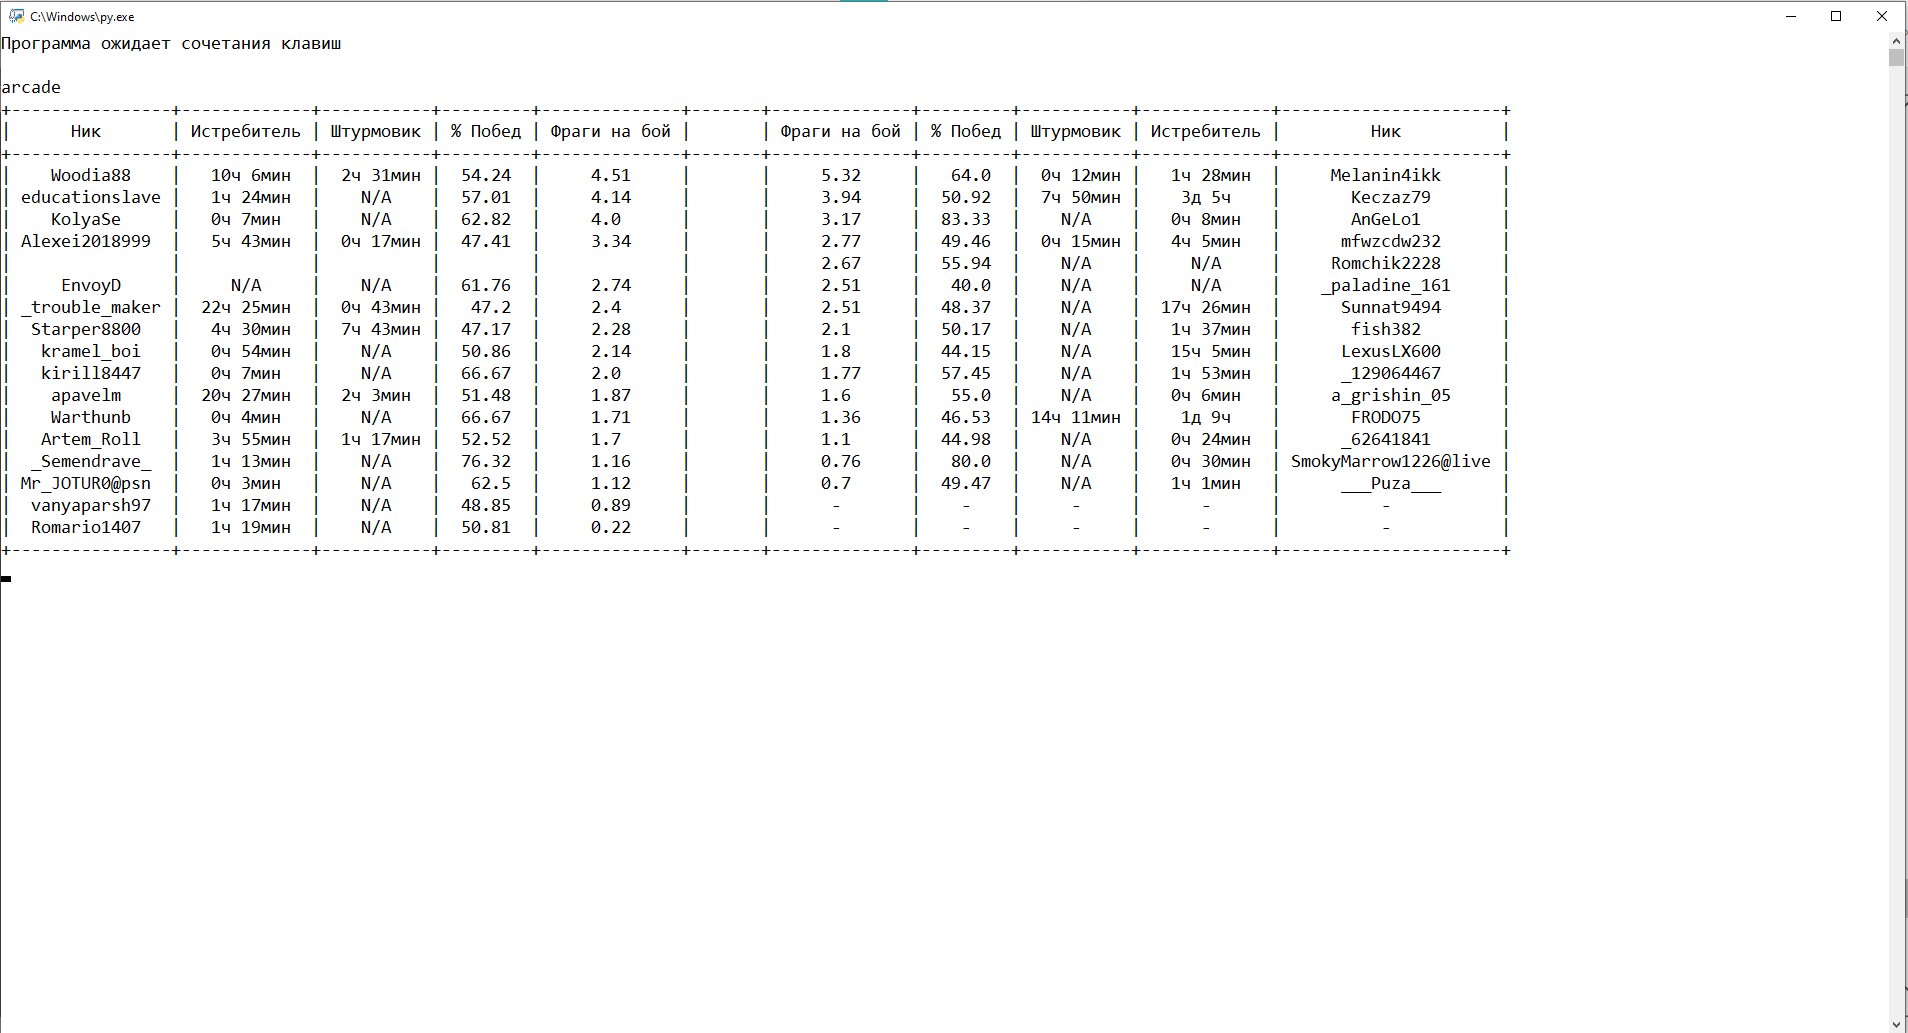
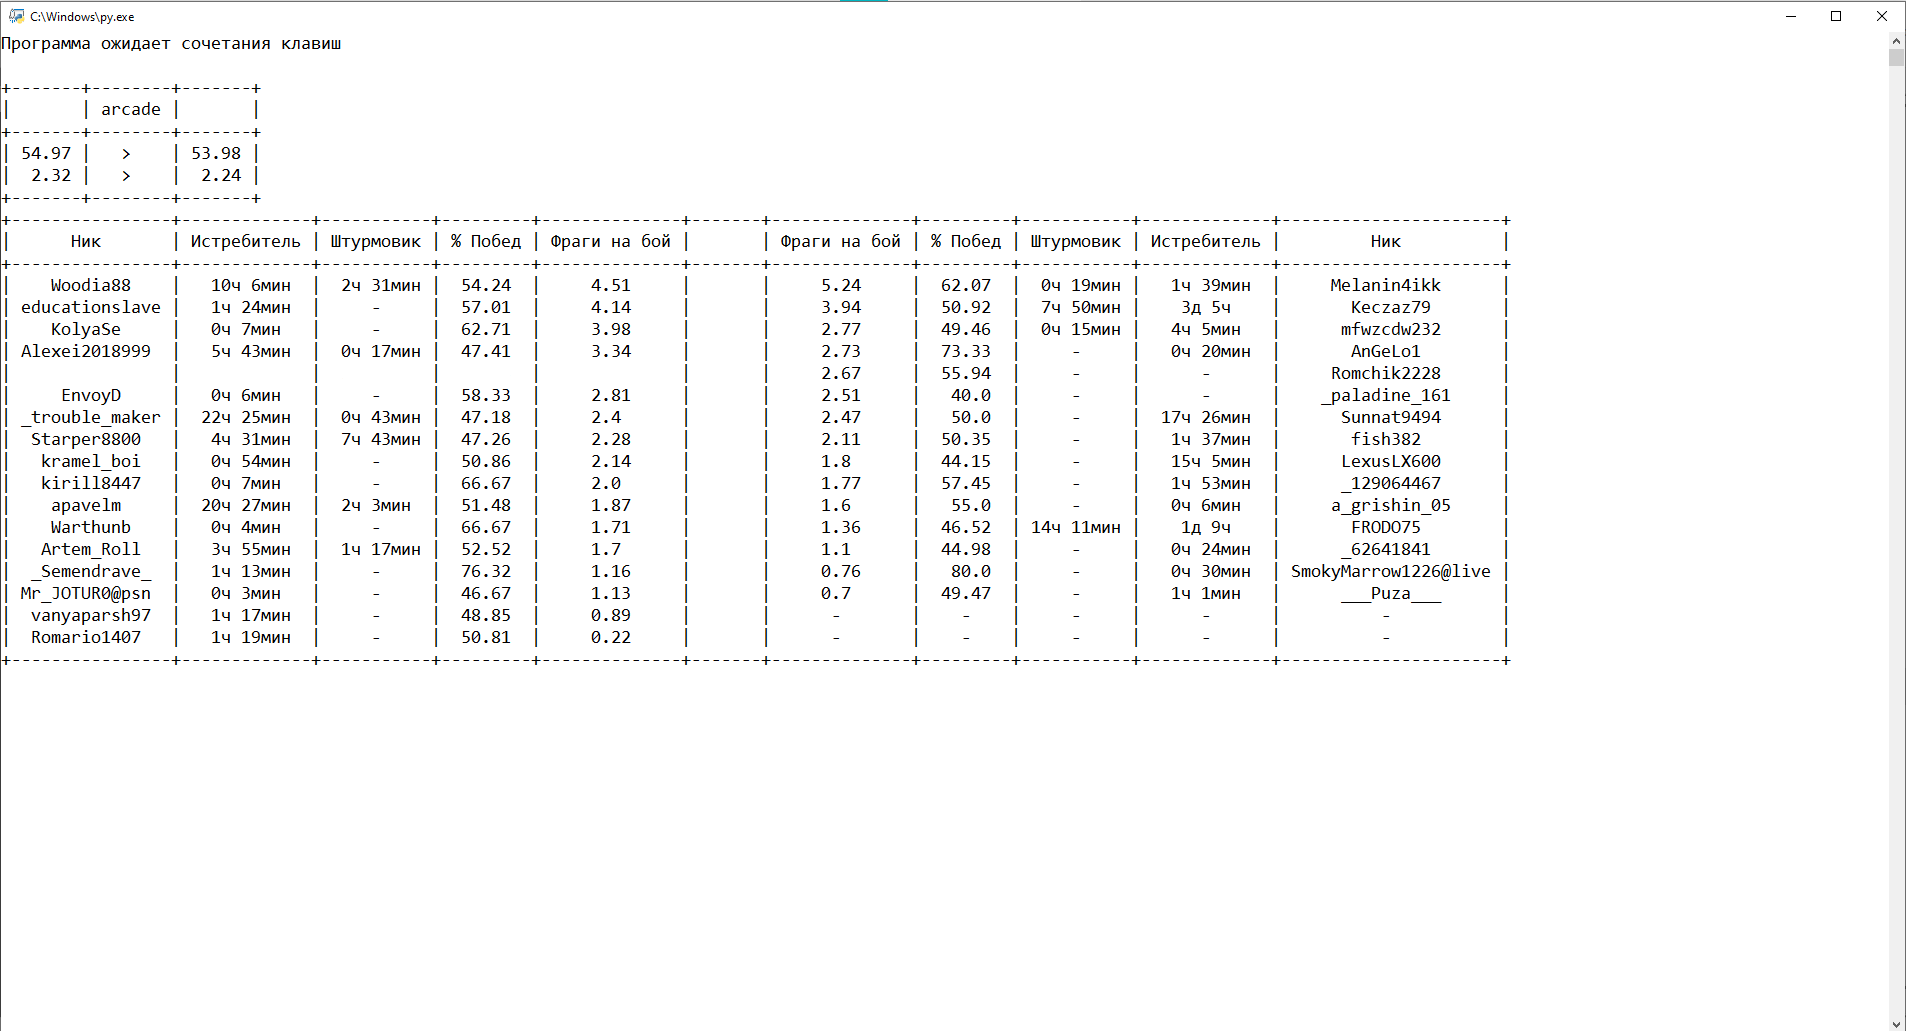
обновление интерфейса

diff --git a/parse_stat.py b/parse_stat.py
@@ -22,6 +22,7 @@ from contextlib import suppress
 import psutil
 from threading import Timer
 #from time import time
+import configparser
 
 driver = 0
 def terminateChrome():
@@ -70,8 +71,8 @@ try:
             if len(divs) == 0:
                 i = np.append(i, 50)
                 i = np.append(i, 0)
-                i = np.append(i, "N/A")
-                i = np.append(i, "N/A")
+                i = np.append(i, "-")
+                i = np.append(i, "-")
                 #print(i) 
             else:
                 wins = divs[0].select('li:nth-of-type(2)')
@@ -109,8 +110,12 @@ try:
                 timesShturm = divs[1].select('li:nth-of-type(8)')
                 
                 timeIstr = timeIstr[diffNumber].text
+                if timeIstr == "N/A":
+                    timeIstr = '-'                
                 timesShturm = timesShturm[diffNumber].text
-                
+                if timesShturm == "N/A":
+                    timesShturm = '-'
+                    
                 i = np.append(i, winrate)
                 i = np.append(i, kd)
                 i = np.append(i, timeIstr)
@@ -119,8 +124,8 @@ try:
             if type(e)==TimeoutException:
                 i = np.append(i, 50)
                 i = np.append(i, 0)
-                i = np.append(i, "N/A")
-                i = np.append(i, "N/A")
+                i = np.append(i, "-")
+                i = np.append(i, "-")
                 #print(i)
             else:
                 raise e            
@@ -157,8 +162,8 @@ try:
                 if len(divs) == 0:
                     i = np.append(i, 50)
                     i = np.append(i, 0)
-                    i = np.append(i, "N/A")
-                    i = np.append(i, "N/A")
+                    i = np.append(i, "-")
+                    i = np.append(i, "-")
                     #print(i) 
                 else:   
                     wins = divs[0].select('li:nth-of-type(2)')
@@ -196,8 +201,12 @@ try:
                     timesShturm = divs[1].select('li:nth-of-type(8)')
                     
                     timeIstr = timeIstr[diffNumber].text
+                    if timeIstr == "N/A":
+                        timeIstr = '-'   
                     timesShturm = timesShturm[diffNumber].text
-                    
+                    if timesShturm == "N/A":
+                        timesShturm = '-'
+                        
                     i = np.append(i, winrate)
                     i = np.append(i, kd)
                     i = np.append(i, timeIstr)
@@ -206,8 +215,8 @@ try:
                 if type(e)==TimeoutException:
                     i = np.append(i, 50)
                     i = np.append(i, 0)
-                    i = np.append(i, "N/A")
-                    i = np.append(i, "N/A")
+                    i = np.append(i, "-")
+                    i = np.append(i, "-")
                     #print(i)
                 else:
                     raise e
@@ -281,7 +290,7 @@ try:
             # team2.append([i[0]])
         # else:
             # team1.append([i[0]])
-    print(diff[1])
+    #print(diff[1])
     teams = np.array(teams)
     findstat(diffNumber, teams, team1, team2)
     
@@ -335,148 +344,163 @@ try:
     team1 = np.sort(team1forSort, order = 'kd')[::-1]
     team2 = np.sort(team2forSort, order = 'kd')[::-1]
 
-    def selectWindow(event):
-        try:
-            toplist = []
-            winlist = []
-            def enum_callback(hwnd, results):
-                winlist.append((hwnd, win32gui.GetWindowText(hwnd)))
-
-            win32gui.EnumWindows(enum_callback, toplist)
-            wt = [(hwnd, title) for hwnd, title in winlist if 'war thunder' in title.lower()]
-            # just grab the first window that matches
-            if wt !=[]:
-                wt = wt[0]
-                #pythoncom.CoInitializeEx(0)
-                #shell = win32com.client.Dispatch("WScript.Shell")
-                #shell.SendKeys('%')                
-                # use the window handle to set focus
-                win32gui.SetForegroundWindow(wt[0])  
-        except Exception as e:
-            if driver != 0:
-                driver.quit()
-                timeout = 3
-                t = Timer(timeout, terminateChrome)
-                t.start()                                
-            else:
-                terminateChrome()
-            file = open('error.log', 'a')
-            file.write('\n\n')
-            traceback.print_exc(file=file, chain=True)
-            traceback.print_exc()
-            file.close()                
-    
-    root = Tk()
-    root.geometry(f'1250x800+{int(root.winfo_screenwidth()/2-625)}+{int(root.winfo_screenheight()/2-400)}')
-    root.bind("<Button-1>",selectWindow)
-    root.bind("<Button-2>",selectWindow)
-    root.bind("<Button-3>",selectWindow)  
-    label1 = Label(root, text=f'{diff[1]}', font=('Roboto','14'), fg='gray')
-    label1.master.overrideredirect(True)
-    label1.master.lift()
-    label1.master.wm_attributes("-topmost", True)
-    
-    # hWindow = pywintypes.HANDLE(int(label1.master.frame(), 16)) 
-    # exStyle = win32con.WS_EX_LAYERED | win32con.WS_EX_NOACTIVATE | win32con.WS_EX_TRANSPARENT
-    # win32api.SetWindowLong(hWindow, win32con.GWL_EXSTYLE, exStyle)        
-    
-    label1.pack()
     sign = 0
+    sign1 = 0
+    
     if team1winrate>team2winrate:
         sign = '>'
     elif team1winrate==team2winrate:
         sign = '='
     else:
         sign = '<'
-    label2 = Label(root, text=f'{team1winrate} {sign} {team2winrate}', font=('Roboto','19', 'bold'), fg='black')
-    label2.master.overrideredirect(True)
-    label2.master.lift()
-    label2.master.wm_attributes("-topmost", True)
-    
-    # hWindow = pywintypes.HANDLE(int(label2.master.frame(), 16)) 
-    # exStyle = win32con.WS_EX_LAYERED | win32con.WS_EX_NOACTIVATE | win32con.WS_EX_TRANSPARENT
-    # win32api.SetWindowLong(hWindow, win32con.GWL_EXSTYLE, exStyle)        
-    
-    label2.pack()
-    if team1kd>team2kd:
-        sign = '>'
-    elif team1kd==team2kd:
-        sign = '='
-    else:
-        sign = '<'    
-    label3 = Label(root, text=f'{team1kd} {sign} {team2kd}', font=('Roboto','17'), fg='black')
-    label3.master.overrideredirect(True)
-    label3.master.lift()
-    label3.master.wm_attributes("-topmost", True)
 
-    # hWindow = pywintypes.HANDLE(int(label3.master.frame(), 16)) 
-    # exStyle = win32con.WS_EX_LAYERED | win32con.WS_EX_NOACTIVATE | win32con.WS_EX_TRANSPARENT
-    # win32api.SetWindowLong(hWindow, win32con.GWL_EXSTYLE, exStyle)
-    
-    label3.pack()
-    
-    
-    
-    columns = ("nickname", "fighter", "attacker", "% winrate", "Kills per Battle")
-    tree = ttk.Treeview(columns=columns, show="headings")
-    tree.master.overrideredirect(True)
-    tree.master.lift()
-    tree.master.wm_attributes("-topmost", True)
-    
-    # hWindow = pywintypes.HANDLE(int(tree.master.frame(), 16)) 
-    # exStyle = win32con.WS_EX_LAYERED | win32con.WS_EX_NOACTIVATE | win32con.WS_EX_TRANSPARENT
-    # win32api.SetWindowLong(hWindow, win32con.GWL_EXSTYLE, exStyle)        
-    
-    tree.pack(fill=Y, expand=1, side=LEFT)
-    tree.heading("nickname", text="Ник", anchor=W)
-    tree.heading("fighter", text="Истребитель", anchor=W)
-    tree.heading("attacker", text="Штурмовик", anchor=W)
-    tree.heading("% winrate", text="% Побед", anchor=W)
-    tree.heading("Kills per Battle", text="Фраги на бой", anchor=W)
-    tree.column("#1", stretch=NO, width=140, anchor=W)
-    tree.column("#2", stretch=NO, width=100, anchor=W)
-    tree.column("#3", stretch=NO, width=100, anchor=W)
-    tree.column("#4", stretch=NO, width=85, anchor=W)
-    tree.column("#5", stretch=NO, width=105, anchor=W)
-    for i in range(len(team1)):
-        tree.insert("", END, values=(team1[i][0], team1[i][4], team1[i][5], team1[i][2], team1[i][3]))
+    if team1kd>team2kd:
+        sign1 = '>'
+    elif team1kd==team2kd:
+        sign1 = '='
+    else:
+        sign1 = '<'   
+
+    def read_config(name):
+        config = configparser.ConfigParser()
+        config.read(name, encoding='utf-8')
+        conf = []
+        conf.append(config.get("Комбинации", "показывать оверлейное окно"))
+        return conf
+    conf = read_config("buttons.ini")
+    abv = conf[0]
+    root = 0
+    if abv == "+":
+        def selectWindow(event):
+            try:
+                toplist = []
+                winlist = []
+                def enum_callback(hwnd, results):
+                    winlist.append((hwnd, win32gui.GetWindowText(hwnd)))
+
+                win32gui.EnumWindows(enum_callback, toplist)
+                wt = [(hwnd, title) for hwnd, title in winlist if 'war thunder' in title.lower()]
+                # just grab the first window that matches
+                if wt !=[]:
+                    wt = wt[0]
+                    #pythoncom.CoInitializeEx(0)
+                    #shell = win32com.client.Dispatch("WScript.Shell")
+                    #shell.SendKeys('%')                
+                    # use the window handle to set focus
+                    win32gui.SetForegroundWindow(wt[0])  
+            except Exception as e:
+                if driver != 0:
+                    driver.quit()
+                    timeout = 3
+                    t = Timer(timeout, terminateChrome)
+                    t.start()                                
+                else:
+                    terminateChrome()
+                file = open('error.log', 'a')
+                file.write('\n\n')
+                traceback.print_exc(file=file, chain=True)
+                traceback.print_exc()
+                file.close()                
+        
+        root = Tk()
+        root.geometry(f'1250x800+{int(root.winfo_screenwidth()/2-625)}+{int(root.winfo_screenheight()/2-400)}')
+        root.bind("<Button-1>",selectWindow)
+        root.bind("<Button-2>",selectWindow)
+        root.bind("<Button-3>",selectWindow)  
+        label1 = Label(root, text=f'{diff[1]}', font=('Roboto','14'), fg='gray')
+        label1.master.overrideredirect(True)
+        label1.master.lift()
+        label1.master.wm_attributes("-topmost", True)
+        
+        # hWindow = pywintypes.HANDLE(int(label1.master.frame(), 16)) 
+        # exStyle = win32con.WS_EX_LAYERED | win32con.WS_EX_NOACTIVATE | win32con.WS_EX_TRANSPARENT
+        # win32api.SetWindowLong(hWindow, win32con.GWL_EXSTYLE, exStyle)        
+        
+        label1.pack()
+
+        label2 = Label(root, text=f'{team1winrate} {sign} {team2winrate}', font=('Roboto','19', 'bold'), fg='black')
+        label2.master.overrideredirect(True)
+        label2.master.lift()
+        label2.master.wm_attributes("-topmost", True)
+        
+        # hWindow = pywintypes.HANDLE(int(label2.master.frame(), 16)) 
+        # exStyle = win32con.WS_EX_LAYERED | win32con.WS_EX_NOACTIVATE | win32con.WS_EX_TRANSPARENT
+        # win32api.SetWindowLong(hWindow, win32con.GWL_EXSTYLE, exStyle)        
+        
+        label2.pack()
+     
+        label3 = Label(root, text=f'{team1kd} {sign1} {team2kd}', font=('Roboto','17'), fg='black')
+        label3.master.overrideredirect(True)
+        label3.master.lift()
+        label3.master.wm_attributes("-topmost", True)
+
+        # hWindow = pywintypes.HANDLE(int(label3.master.frame(), 16)) 
+        # exStyle = win32con.WS_EX_LAYERED | win32con.WS_EX_NOACTIVATE | win32con.WS_EX_TRANSPARENT
+        # win32api.SetWindowLong(hWindow, win32con.GWL_EXSTYLE, exStyle)
+        
+        label3.pack()
         
         
-    columns1 = ("Kills per Battle", "% winrate", "attacker", "fighter", "nickname")
-    tree1 = ttk.Treeview(columns=columns1, show="headings")
-    tree1.master.overrideredirect(True)
-    tree1.master.lift()
-    tree1.master.wm_attributes("-topmost", True)
-    
-    # hWindow = pywintypes.HANDLE(int(tree1.master.frame(), 16)) 
-    # exStyle = win32con.WS_EX_LAYERED | win32con.WS_EX_NOACTIVATE | win32con.WS_EX_TRANSPARENT
-    # win32api.SetWindowLong(hWindow, win32con.GWL_EXSTYLE, exStyle)        
-    
-    tree1.pack(fill=Y, expand=1, side=RIGHT)
-    tree1.heading("nickname", text="Ник", anchor=W)
-    tree1.heading("fighter", text="Истребитель", anchor=W)
-    tree1.heading("attacker", text="Штурмовик", anchor=W)
-    tree1.heading("% winrate", text="% Побед", anchor=W)
-    tree1.heading("Kills per Battle", text="Фраги на бой", anchor=W)
-    tree1.column("#1", stretch=NO, width=105, anchor=W)
-    tree1.column("#2", stretch=NO, width=85, anchor=W)
-    tree1.column("#3", stretch=NO, width=100, anchor=W)
-    tree1.column("#4", stretch=NO, width=100, anchor=W)
-    tree1.column("#5", stretch=NO, width=140, anchor=W)
-    for i in range(len(team2)):
-        tree1.insert("", END, values=(team2[i][3], team2[i][2], team2[i][5], team2[i][4], team2[i][0]))     
-    
-    
-    btn1 = ttk.Button(text="X", command=root.destroy, width=3)
-    btn1.master.overrideredirect(True)
-    btn1.master.lift()
-    btn1.master.wm_attributes("-topmost", True)
-    btn1.place(x=1250-33, y=3)
+        
+        columns = ("nickname", "fighter", "attacker", "% winrate", "Kills per Battle")
+        tree = ttk.Treeview(columns=columns, show="headings")
+        tree.master.overrideredirect(True)
+        tree.master.lift()
+        tree.master.wm_attributes("-topmost", True)
+        
+        # hWindow = pywintypes.HANDLE(int(tree.master.frame(), 16)) 
+        # exStyle = win32con.WS_EX_LAYERED | win32con.WS_EX_NOACTIVATE | win32con.WS_EX_TRANSPARENT
+        # win32api.SetWindowLong(hWindow, win32con.GWL_EXSTYLE, exStyle)        
+        
+        tree.pack(fill=Y, expand=1, side=LEFT)
+        tree.heading("nickname", text="Ник", anchor=W)
+        tree.heading("fighter", text="Истребитель", anchor=W)
+        tree.heading("attacker", text="Штурмовик", anchor=W)
+        tree.heading("% winrate", text="% Побед", anchor=W)
+        tree.heading("Kills per Battle", text="Фраги на бой", anchor=W)
+        tree.column("#1", stretch=NO, width=140, anchor=W)
+        tree.column("#2", stretch=NO, width=100, anchor=W)
+        tree.column("#3", stretch=NO, width=100, anchor=W)
+        tree.column("#4", stretch=NO, width=85, anchor=W)
+        tree.column("#5", stretch=NO, width=105, anchor=W)
+        for i in range(len(team1)):
+            tree.insert("", END, values=(team1[i][0], team1[i][4], team1[i][5], team1[i][2], team1[i][3]))
+            
+            
+        columns1 = ("Kills per Battle", "% winrate", "attacker", "fighter", "nickname")
+        tree1 = ttk.Treeview(columns=columns1, show="headings")
+        tree1.master.overrideredirect(True)
+        tree1.master.lift()
+        tree1.master.wm_attributes("-topmost", True)
+        
+        # hWindow = pywintypes.HANDLE(int(tree1.master.frame(), 16)) 
+        # exStyle = win32con.WS_EX_LAYERED | win32con.WS_EX_NOACTIVATE | win32con.WS_EX_TRANSPARENT
+        # win32api.SetWindowLong(hWindow, win32con.GWL_EXSTYLE, exStyle)        
+        
+        tree1.pack(fill=Y, expand=1, side=RIGHT)
+        tree1.heading("nickname", text="Ник", anchor=W)
+        tree1.heading("fighter", text="Истребитель", anchor=W)
+        tree1.heading("attacker", text="Штурмовик", anchor=W)
+        tree1.heading("% winrate", text="% Побед", anchor=W)
+        tree1.heading("Kills per Battle", text="Фраги на бой", anchor=W)
+        tree1.column("#1", stretch=NO, width=105, anchor=W)
+        tree1.column("#2", stretch=NO, width=85, anchor=W)
+        tree1.column("#3", stretch=NO, width=100, anchor=W)
+        tree1.column("#4", stretch=NO, width=100, anchor=W)
+        tree1.column("#5", stretch=NO, width=140, anchor=W)
+        for i in range(len(team2)):
+            tree1.insert("", END, values=(team2[i][3], team2[i][2], team2[i][5], team2[i][4], team2[i][0]))     
+        
+        
+        btn1 = ttk.Button(text="X", command=root.destroy, width=3)
+        btn1.master.overrideredirect(True)
+        btn1.master.lift()
+        btn1.master.wm_attributes("-topmost", True)
+        btn1.place(x=1250-33, y=3)
 
     # timeout = 0
     # t = Timer(timeout, selectWindow)
     # t.start()
-    
     team1 = np.array(team1, dtype=[('name', np.dtype('U100')), ('team', np.dtype('U100')),('winrate', np.dtype('U100')), ('kd', np.dtype('U100')), ('time', np.dtype('U100')), ('time1', np.dtype('U100'))])
     team2 = np.array(team2, dtype=[('name', np.dtype('U100')), ('team', np.dtype('U100')),('winrate', np.dtype('U100')), ('kd', np.dtype('U100')), ('time', np.dtype('U100')), ('time1', np.dtype('U100'))])
     delta = len(team1) - len(team2)
@@ -494,8 +518,15 @@ try:
     for i in teams:
         #print([i[0][0], i[0][5], i[0][6], i[0][3], i[0][4], '1', i[1][4], i[1][3], i[1][6], i[1][5], i[1][0]])
         myTable.add_row([i[0][0], i[0][4], i[0][5], i[0][2], i[0][3], '     ', i[1][3], i[1][2], i[1][5], i[1][4], i[1][0]])
+    
+    myTable1 = PrettyTable(['',diff[1],' '])
+    myTable1.add_row([team1winrate,sign,team2winrate])
+    myTable1.add_row([team1kd,sign1,team2kd])
+    
+    print(myTable1)
     print(myTable)
-    root.mainloop()    
+    if abv == "+":
+        root.mainloop()    
     #print(team1)
     #print(team2)
                
